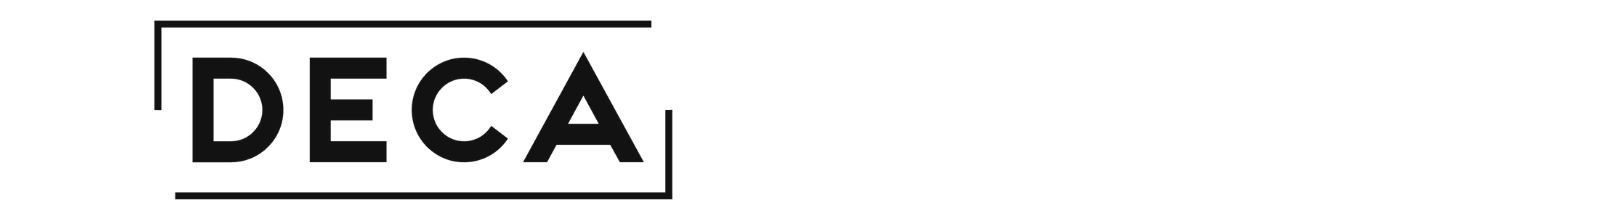
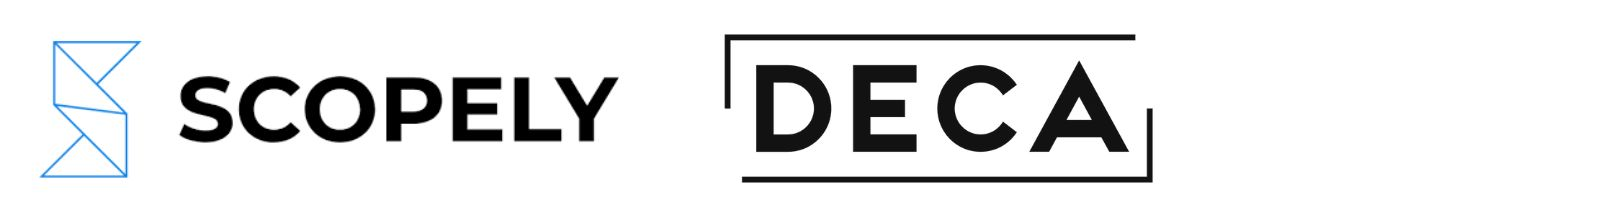
V1.5

Changed region(s): [[0.0, 0.0818, 0.7188, 0.9273], [0.4375, 0.1364, 0.7188, 0.7091]]

diff --git a/index.html b/index.html
@@ -3,8 +3,8 @@
 <head>
   <meta charset="utf-8" />
   <meta name="viewport" content="width=device-width, initial-scale=1" />
-  <title>Fabio Morini – Unity Software Engineer</title>
-  <meta name="description" content="Fabio Morini – Unity Software Engineer &amp; software engineer. Gameplay systems, live-ops, services, tooling. DECA Games." />
+  <title>Fabio Morini – Unity Engineer</title>
+  <meta name="description" content="Fabio Morini – Unity Engineer &amp; software engineer. Gameplay systems, live-ops, services, tooling." />
   <link rel="preconnect" href="https://fonts.googleapis.com">
   <link rel="preconnect" href="https://fonts.gstatic.com" crossorigin>
   <link href="https://fonts.googleapis.com/css2?family=Inter:wght@400;600;700&display=swap" rel="stylesheet">
@@ -19,12 +19,11 @@
 
   <section id="about" class="section about">
     <div class="wrap">
-      <h1 class="hero-title">Fabio Morini – Unity Software Engineer</h1>
+      <h1 class="hero-title">Fabio Morini – Unity Engineer</h1>
 
       <nav class="keywords" aria-label="Section navigation">
         <a href="#about">About</a>
         <a href="#projects">Projects</a>
-        <!--<a href="#lab">Experiments</a> -->
         <a href="#community">Community</a>
         <a href="#resume">Curriculum Vitae</a>
       </nav>
@@ -33,7 +32,7 @@
 
       <div class="about-grid">
         <div class="about-photo">
-          <img src="assets/img/profile.jpg" alt="Portrait of Fabio Morini" />
+          <img src="assets/img/profile.jpg" alt="Portrait" />
           <div class="social">
             <a class="icon" href="mailto:morinifabio90@gmail.com" aria-label="Email">
               <img src="assets/img/icons/email.svg" alt="" aria-hidden="true" />
@@ -54,20 +53,15 @@
         </div>
 
         <div class="about-body">
-          <p><strong>I’m a Unity software engineer working on live mobile games and shared tech.</strong></p>
+          <p><strong>I’m an Associate Engineer at Scopely, working on MONOPOLY GO! and the player lifecycle experience.</strong></p>
           <p>
-            I currently work at <strong>DECA Games</strong> where I do the maintenance of Unity titles through new gameplay content,
-            services integration, and more recently Shared Tech. My work in Shared Tech includes designing and implementing
-            shared modules which are added to the games.
+            I have experience in mobile game development for iOS and Android, primarily working with Unity and C#. My background consists in gameplay systems, live-ops, internal tools, and shared tech, with additional exposure to other engines and architectures.
           </p>
-
           <p>
-            I’ve been passionate about games since I was a kid. The first games I got my hands on were LEGO
-            sets and the PlayStation 1. Over the years, I wasn’t only enjoying games as a playable experience,
-            but I was also curious about how they worked on the inside. That intrigue turned into taking things
-            apart, reverse-engineering devices, and learning how the pieces fit together. For me, being able to
-            understand or fix a system is as satisfying as playing a game. Outside of game development,
-            I’m an avid chess player and I also enjoy ’90s movies.
+            I’ve been passionate about games since I was a kid. The first games I experienced were LEGO sets and the PlayStation 1. 
+            Over time, I became as interested in how games work internally as in playing them. 
+            I find much satisfaction in taking systems apart, reverse-engineering things, and understanding how the pieces fit together. 
+            Outside of game development, I enjoy chess, movies, and sports.
           </p>
 
           <p>
@@ -93,8 +87,39 @@
       <div class="section-head">
         <h2>Projects</h2>
       </div>
-
       <div id="projects-wrap" class="projects grid">
+        
+        <article class="project">
+          <header class="project-head">
+            <h4>Monopoly Go!</h4>
+            <span class="project-role">Unity Engineer</span>
+          </header>
+          <div class="tag-row">
+            <span class="tag tag-type">SCOPELY</span>
+            <span class="tag tag-blue">Unity</span>
+            <span class="tag tag-green">C#</span>
+            <span class="tag tag-teal">Live-ops</span>
+          </div>
+          <p class="project-desc">
+            Live-ops support and systems maintenance for Monopoly Go!
+          </p>
+          <figure class="cover">
+            <img src="assets/img/projects/monopoly.webp" alt="Monopoly Go!" />
+          </figure>
+          <div class="project-media">
+            <button class="media-thumb is-active" type="button" data-src="assets/img/projects/monopoly.webp">
+              <img src="assets/img/projects/monopoly.webp" alt="Monopoly Go! x Harry Potter" />
+            </button>
+          </div>
+          <ul>
+            <li class="is-link-row"><strong>Link: </strong>
+              <a href="https://play.google.com/store/apps/details?id=com.scopely.monopolygo&hl=en" target="_blank">Monopoly Go!</a>
+            </li>
+            <li><strong>Role:</strong> Unity engineer focusing on live-ops and player journey improvements.</li>
+            <li><strong>Team:</strong> large cross-discipline.</li>
+          </ul>
+        </article>
+
         <article class="project">
           <header class="project-head">
             <h4>Madfinger Games</h4>
@@ -255,36 +280,6 @@
       </div>
     </div>
   </section>
-
-  <!-- #region <section id="lab" class="section">
-    <div class="wrap">
-      <h2>Experiments</h2>
-
-      <article class="inline with-media stack">
-        <div class="stack-head">
-          <h3>Custom Console Logger</h3>
-          <div class="tag-row">
-            <span class="tag tag-type">DECA GAMES</span>
-            <span class="tag tag-blue-soft">TOOL</span>
-            <span class="tag tag-green-soft">Unity</span>
-            <span class="tag tag-teal">Editor UX</span>
-          </div>
-        </div>
-
-        <div class="media">
-          <img src="assets/img/projects/console_logger.jpg" alt="Unity-style console logger" />
-        </div>
-
-        <div class="stack-body">
-          <ul>
-            <li>
-              <strong>Description:</strong> Unity console logger developed for DECA Shared Tech, it features a UI made from scratch, channels Unity and Logcat logs in one place and displays the console on the build.
-            </li>
-          </ul>
-        </div>
-      </article>
-    </div>
-  </section> -->
 
   <section id="community" class="section">
     <div class="wrap">

diff --git a/css/style.css b/css/style.css
@@ -27,6 +27,7 @@ body {
   background: var(--bg);
 }
 
+
 a {
   color: var(--link);
   text-decoration: none;
@@ -124,7 +125,10 @@ img {
 
 .icon:hover img { filter: brightness(0.8); }
 
-.about-body p { margin: 0 0 12px; }
+.about-body p { 
+  margin: 0 0 12px; 
+  text-align: justify;
+}
 .about-body p:first-of-type { font-weight: 600; }
 
 .tag-row {
